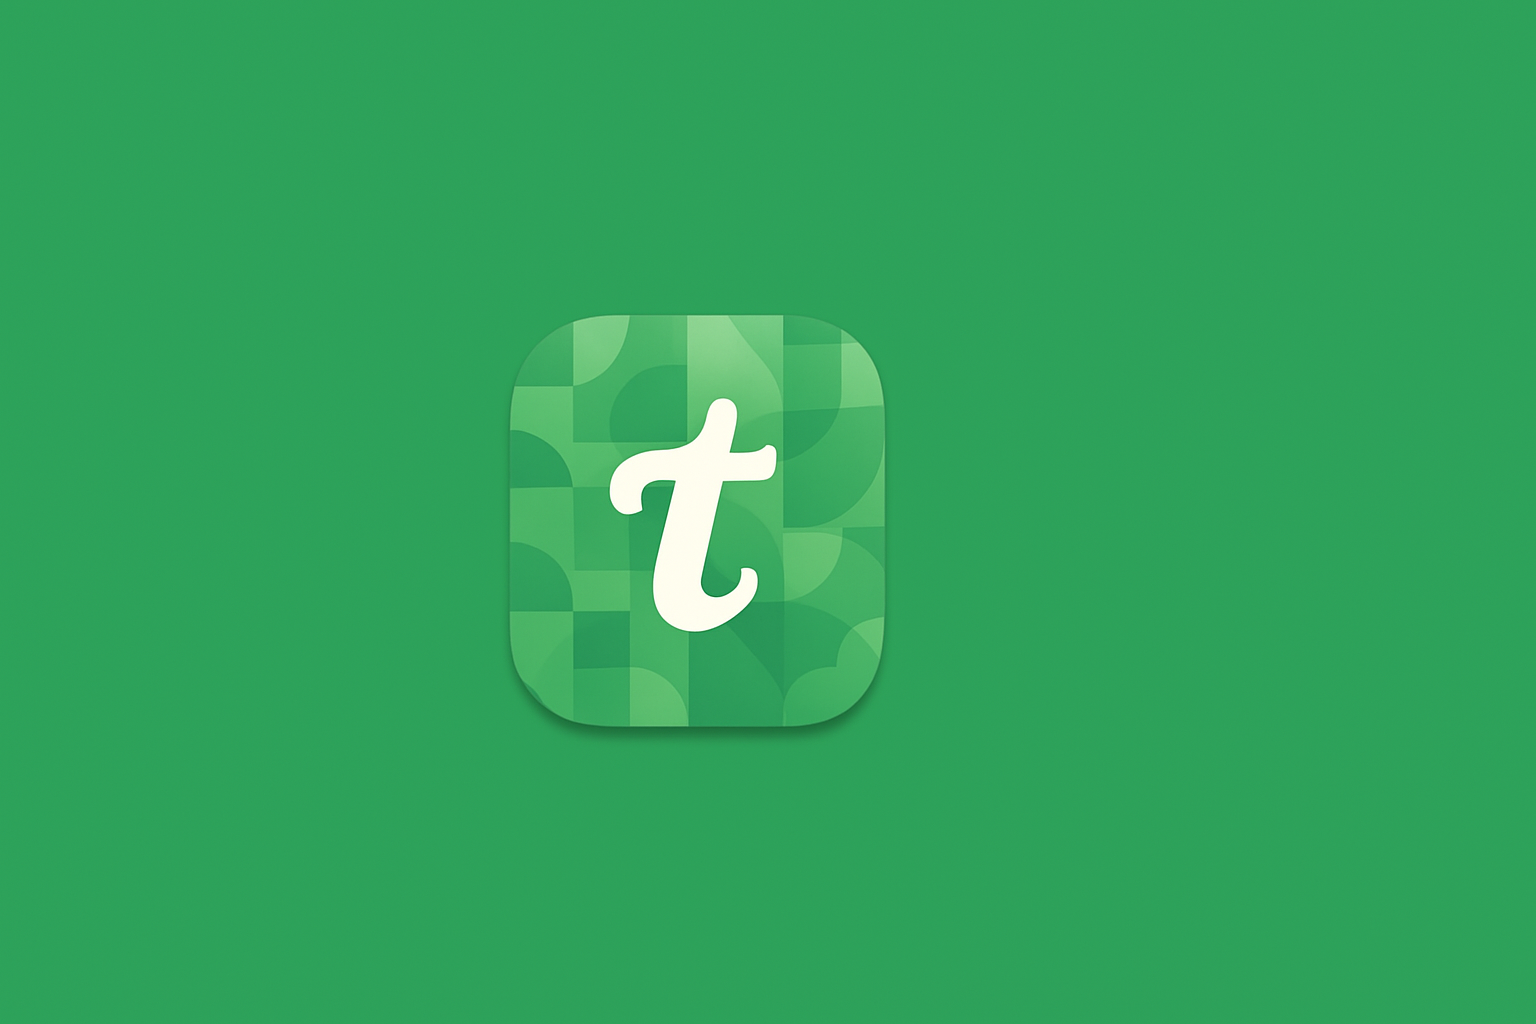
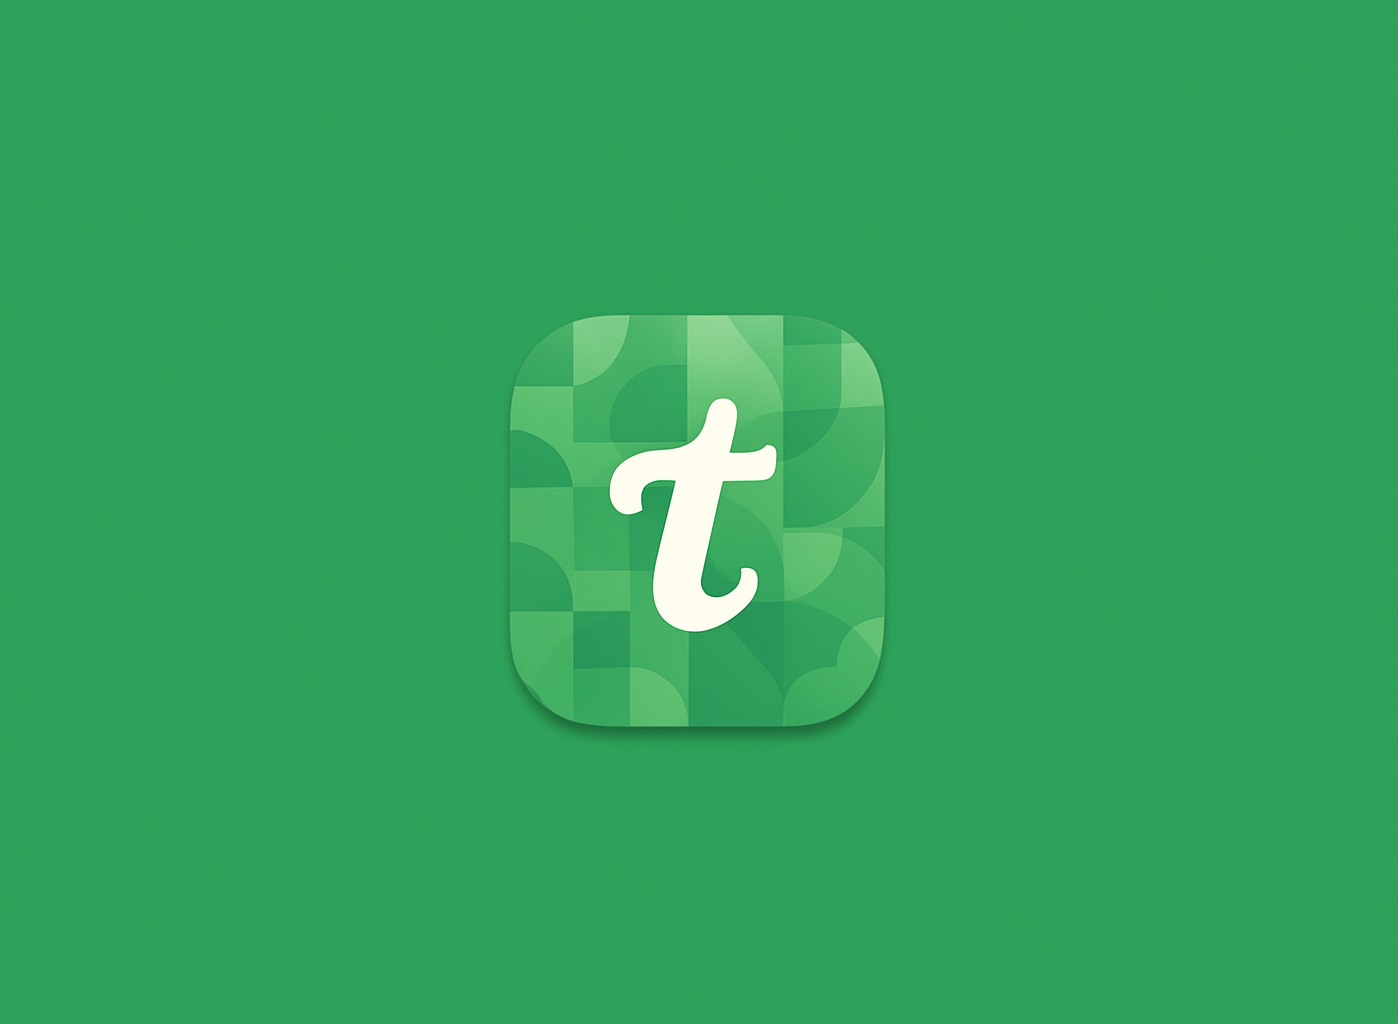
Add new image to project

Changed region(s): [[0.3076, 0.2812, 0.6459, 0.7188]]

diff --git a/src/app/page.tsx b/src/app/page.tsx
@@ -62,7 +62,7 @@ const projects = [
     description: 'KI-gestütztes Barrierefreiheitstool für Entwickler:innen',
     tech: ['Next.js', 'MongoDB', 'Pinecone'],
     demo: 'https://normly-ai.vercel.app/',
-    image: '/coming-soon.png'
+    image: '/normly.png'
   }
 ]
 
